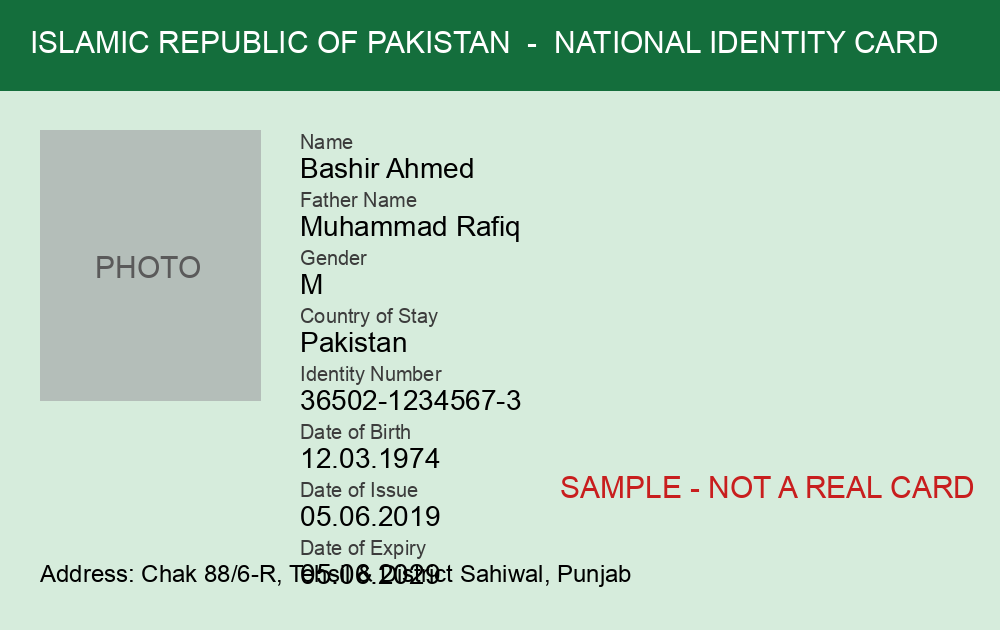
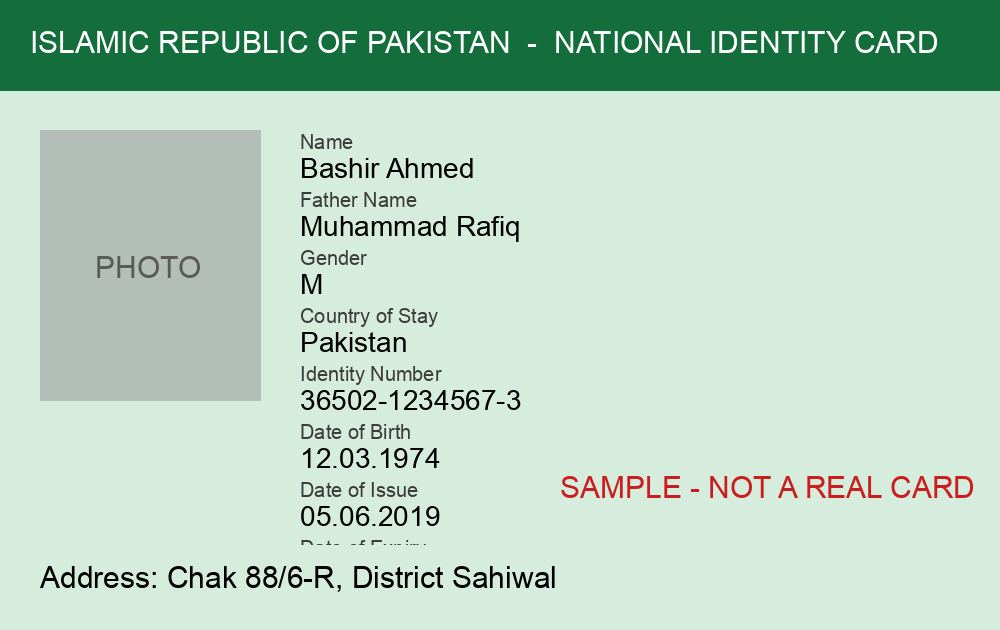
Self-hosted Urdu voice (MMS-TTS), hybrid mode with fast fallback, clearer sample CNIC

Changed region(s): [[0.031, 0.8444, 0.651, 0.9349]]

diff --git a/static/app.js b/static/app.js
@@ -1,7 +1,7 @@
 // Sahulat front end: chat, voice, document scan, cards and progress panel.
 const $ = (s) => document.querySelector(s);
 const chat = $("#chat");
-const state = { history: [], mode: "local", voice: true, profile: null, shown: new Set() };
+const state = { history: [], mode: "cloud", voice: true, profile: null, shown: new Set() };
 
 const isUrdu = (t) => /[-ۿ]/.test(t);
 const esc = (s) => String(s ?? "").replace(/[&<>"]/g, (c) => ({ "&": "&amp;", "<": "&lt;", ">": "&gt;", '"': "&quot;" }[c]));
@@ -153,14 +153,22 @@ async function scan(file) {
 }
 
 // ---------- voice ----------
-function speak(text) {
-  if (!state.voice || !("speechSynthesis" in window)) return;
+let player;
+async function speak(text) {
+  if (!state.voice) return;
+  text = text.replace(/[*#_`]/g, "");
+  player?.pause();
+  if (isUrdu(text)) {
+    // Urdu voice from our self-hosted open model (Meta MMS-TTS).
+    try {
+      const r = await fetch("/api/tts", { method: "POST", headers: { "Content-Type": "application/json" }, body: JSON.stringify({ text }) });
+      if (r.ok) { player = new Audio(URL.createObjectURL(await r.blob())); player.play(); return; }
+    } catch {}
+  }
+  if (!("speechSynthesis" in window)) return;
   speechSynthesis.cancel();
-  const u = new SpeechSynthesisUtterance(text.replace(/[*#_`]/g, ""));
-  const lang = isUrdu(text) ? "ur" : "en";
-  const v = speechSynthesis.getVoices().find((x) => x.lang.toLowerCase().startsWith(lang));
-  if (v) u.voice = v;
-  u.lang = lang === "ur" ? "ur-PK" : "en-US";
+  const u = new SpeechSynthesisUtterance(text);
+  u.lang = "en-US";
   speechSynthesis.speak(u);
 }
 
@@ -185,12 +193,12 @@ document.querySelectorAll(".chip").forEach((b) => (b.onclick = () => send(b.inne
 $("#voiceBtn").onclick = () => {
   state.voice = !state.voice;
   $("#voiceBtn").innerHTML = state.voice ? `${icon("volume_up")}<span class="lbl">Voice on</span>` : `${icon("volume_off")}<span class="lbl">Voice off</span>`;
-  if (!state.voice) speechSynthesis.cancel();
+  if (!state.voice) { speechSynthesis.cancel(); player?.pause(); }
 };
 document.querySelectorAll(".segmented button").forEach((b) => (b.onclick = () => {
   state.mode = b.dataset.mode;
   document.querySelectorAll(".segmented button").forEach((x) => x.classList.toggle("on", x === b));
   $("#privacyText").textContent = state.mode === "local"
     ? "Private mode: everything runs on Gemma 4 on our own server. Nothing is sent to Google."
-    : "Chat runs on Gemma 4 via the Gemini API. CNIC photos are read by Gemma 4 on our own server and never sent to Google.";
+    : "Hybrid: chat uses Gemma 4 on the Gemini API, with our own server as backup. CNIC photos are read only on our own server.";
 }));

diff --git a/static/index.html b/static/index.html
@@ -21,15 +21,15 @@
   <div class="actions">
     <button id="voiceBtn" class="tonal" title="Read replies aloud"><span class="ms">volume_up</span><span class="lbl">Voice on</span></button>
     <div class="segmented" role="group" aria-label="Where Gemma runs">
-      <button data-mode="local" class="on"><span class="ms">shield_lock</span>Private</button>
-      <button data-mode="cloud"><span class="ms">bolt</span>Gemini API</button>
+      <button data-mode="cloud" class="on"><span class="ms">bolt</span>Hybrid</button>
+      <button data-mode="local"><span class="ms">shield_lock</span>Private</button>
     </div>
   </div>
 </header>
 
 <div class="layout">
   <section class="chatpane">
-    <div class="privacy" id="privacy"><span class="ms">verified_user</span><span id="privacyText">Private mode: everything runs on Gemma 4 on our own server. Nothing is sent to Google.</span></div>
+    <div class="privacy" id="privacy"><span class="ms">verified_user</span><span id="privacyText">Hybrid: chat uses Gemma 4 on the Gemini API, with our own server as backup. CNIC photos are read only on our own server.</span></div>
 
     <main id="chat">
       <div class="welcome">

diff --git a/app/llm.py b/app/llm.py
@@ -7,7 +7,6 @@ import base64
 import json
 import os
 import re
-import time
 from pathlib import Path
 
 import httpx
@@ -61,22 +60,13 @@ def chat(messages, mode="local", tools=None, temperature=0.3):
     body = {"model": b["model"], "messages": messages, "temperature": temperature}
     if tools:
         body["tools"] = tools
-    for attempt in range(2):
-        try:
-            # The free Gemini API sometimes hangs; give up fast and let the caller fall back.
-            r = httpx.post(
-                f"{b['base']}/chat/completions",
-                headers={"Authorization": f"Bearer {b['key']}"},
-                json=body,
-                timeout=45,
-            )
-        except httpx.TimeoutException:
-            if attempt == 1:
-                raise
-            continue
-        if r.status_code not in (429, 500, 503) or attempt == 1:
-            break
-        time.sleep(1)
+    # The free Gemini API sometimes hangs: give up after 15s so the agent falls back to our own server.
+    r = httpx.post(
+        f"{b['base']}/chat/completions",
+        headers={"Authorization": f"Bearer {b['key']}"},
+        json=body,
+        timeout=15,
+    )
     r.raise_for_status()
     msg = r.json()["choices"][0]["message"]
     if msg.get("content"):

diff --git a/app/main.py b/app/main.py
@@ -1,9 +1,11 @@
 """Sahulat web server."""
+import os
 import time
 from pathlib import Path
 
+import httpx
 from fastapi import FastAPI, File, HTTPException, UploadFile
-from fastapi.responses import FileResponse
+from fastapi.responses import FileResponse, Response
 from fastapi.staticfiles import StaticFiles
 from pydantic import BaseModel
 
@@ -55,6 +57,18 @@ async def read_document(file: UploadFile = File(...)):
     fields["cnic_masked"] = mask(fields.get("cnic", ""))
     return {"fields": fields, "processed_on": "our own server" if mode == "local" else "cloud",
             "seconds": round(time.time() - t, 1)}
+
+
+@app.post("/api/tts")
+def tts(body: dict):
+    # Urdu speech from self-hosted MMS-TTS (browsers rarely ship an Urdu voice).
+    url = os.environ.get("TTS_URL", "http://localhost:8101/tts")
+    try:
+        r = httpx.post(url, json={"text": str(body.get("text", ""))}, timeout=60)
+        r.raise_for_status()
+    except Exception as e:
+        raise HTTPException(502, f"Voice server not reachable: {e}")
+    return Response(r.content, media_type="audio/wav")
 
 
 @app.get("/api/services")

diff --git a/tts/server.py b/tts/server.py
@@ -1,0 +1,29 @@
+"""Self-hosted Urdu text-to-speech with Meta's open MMS-TTS model (facebook/mms-tts-urd)."""
+import io
+
+import numpy as np
+import scipy.io.wavfile
+import torch
+from fastapi import FastAPI
+from fastapi.responses import Response
+from pydantic import BaseModel
+from transformers import AutoTokenizer, VitsModel
+
+MODEL = "facebook/mms-tts-urd-script_arabic"
+tokenizer = AutoTokenizer.from_pretrained(MODEL)
+model = VitsModel.from_pretrained(MODEL).eval()
+app = FastAPI()
+
+
+class Say(BaseModel):
+    text: str
+
+
+@app.post("/tts")
+def tts(body: Say):
+    inputs = tokenizer(body.text[:600], return_tensors="pt")
+    with torch.no_grad():
+        wave = model(**inputs).waveform[0].numpy()
+    buf = io.BytesIO()
+    scipy.io.wavfile.write(buf, model.config.sampling_rate, (wave * 32767).astype(np.int16))
+    return Response(buf.getvalue(), media_type="audio/wav")

diff --git a/README.md b/README.md
@@ -23,7 +23,7 @@ Sahulat is an Urdu-speaking AI agent, built on **Google Gemma 4**, that takes an
 | 📷 **Scan CNIC** | Gemma 4 reads the card photo and pulls out name, father's name, CNIC, date of birth and address |
 | 📝 **Filled form** | A pre-filled domicile application opens, ready to correct, print or save as PDF |
 | 📍 **Where to go** | e-Khidmat Markaz and Assistant Commissioner office for the user's district, plus an *Open in Google Maps* button |
-| 🔊 **Read aloud** | Replies are spoken back for users who cannot read |
+| 🔊 **Read aloud** | Urdu replies are spoken with **Meta's open MMS-TTS Urdu model**, self-hosted (`tts/server.py`) |
 
 ## How AI is used (Gemma 4)
 
@@ -39,7 +39,8 @@ Reading someone's CNIC is sensitive, so Sahulat uses the fact that **Gemma 4 is 
 - **CNIC photos are read only by Gemma 4 on our own server** (Ollama, self-hosted). They are **never sent to Google** or any third party.
 - Photos are processed in memory and **never written to disk**.
 - The model only ever sees a **masked CNIC** (`36502-*******-3`) during the conversation. The full number stays in the user's browser and goes only into the printable form.
-- **Private mode** runs the whole conversation on self-hosted Gemma 4 too. **Fast mode** uses Gemma 4 on the Gemini API for chat only, never for documents.
+- **Hybrid mode** (default): chat uses Gemma 4 on the Gemini API. If the API is slow (over 15s) or down, Sahulat answers from self-hosted Gemma 4 instead. Documents never go to the API.
+- **Private mode** runs the whole conversation on self-hosted Gemma 4.
 - The office search sends **only the district name**, never personal data.
 
 ## Architecture
@@ -53,7 +54,7 @@ FastAPI server (app/main.py)
    └── CNIC reading ─► Gemma 4 E4B on self-hosted Ollama only (never cloud)
 ```
 
-Open-source stack: **Gemma 4** (Apache 2.0), **Ollama**, **FastAPI**, Web Speech API. The code is MIT.
+Open-source stack: **Gemma 4** (Apache 2.0), **Ollama**, **Meta MMS-TTS Urdu** (CC-BY-NC 4.0, used for this non-commercial demo), **FastAPI**, Web Speech API. The code is MIT.
 
 ## Setup
 
@@ -67,11 +68,15 @@ pip install -r requirements.txt
 # Self-hosted Gemma 4 (on this machine or your own server)
 ollama pull gemma4:e4b
 
-# Optional: Fast mode chat through the Gemini API
+# Optional: Hybrid mode chat through the Gemini API
 echo "GEMINI_API_KEY=your_key" > .env
 
 python -m uvicorn app.main:app --port 8000
 # open http://localhost:8000
+
+# Optional: self-hosted Urdu voice
+pip install -r tts/requirements.txt
+cd tts && uvicorn server:app --port 8101
 ```
 
 **Optional settings in `.env`:**
@@ -81,7 +86,8 @@ python -m uvicorn app.main:app --port 8000
 | `OLLAMA_URL` | `http://localhost:11434/v1` | Your self-hosted Gemma server, for example a VPS through an SSH tunnel |
 | `LOCAL_MODEL` | `gemma4:e2b` | Use `gemma4:e4b` for better document reading |
 | `CLOUD_MODEL` | `gemma-4-26b-a4b-it` | Gemma 4 model on the Gemini API |
-| `GEMINI_API_KEY` | — | Only needed for Fast mode |
+| `GEMINI_API_KEY` | — | Only needed for Hybrid mode |
+| `TTS_URL` | `http://localhost:8101/tts` | Self-hosted Urdu voice server (`tts/server.py`) |
 
 A **fake sample CNIC** for testing is in `samples/sample_cnic.png`. Never test with a real card.
 
@@ -100,7 +106,6 @@ samples/                  Fake CNIC for testing
 
 - Version 1 covers **Punjab domicile**. Next: CNIC renewal, BISP eligibility, birth certificate, police character certificate.
 - Rules change. The knowledge pack shows a *checked on* date and asks users to confirm at the office.
-- Offline Urdu text-to-speech (for example, MMS-TTS Urdu) so voice output does not depend on the browser.
 - WhatsApp version: most target users already use WhatsApp voice notes.
 
 ## License
